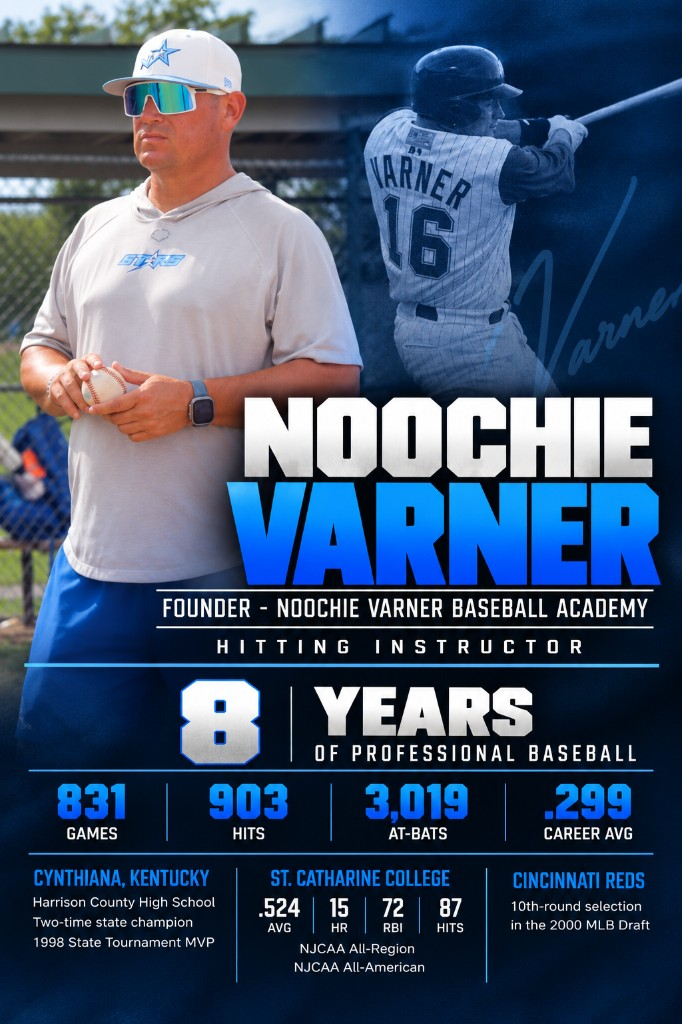
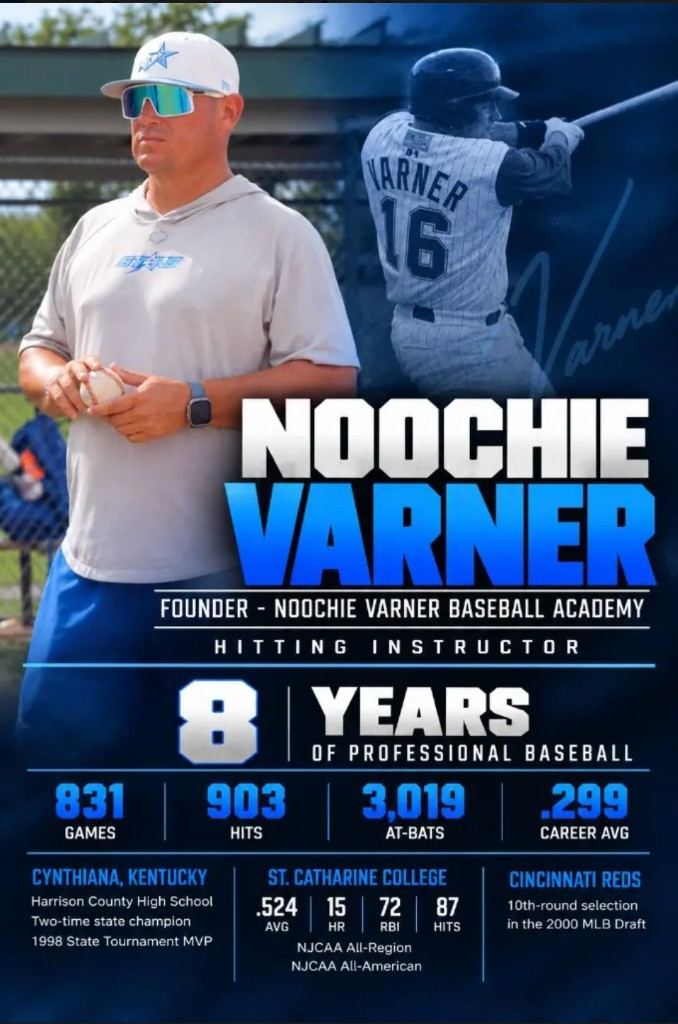
bio section

diff --git a/src/components/FounderAboutSection.tsx b/src/components/FounderAboutSection.tsx
@@ -44,31 +44,22 @@ export default function FounderAboutSection({ founder }: { founder: FounderPubli
       <section id="noochie-varner" className="scroll-mt-28 border-t border-nv-navy/8 bg-white">
         <div className="mx-auto max-w-7xl px-4 py-10 sm:px-6 sm:py-12">
           <div className="grid gap-10 lg:grid-cols-[minmax(0,1fr)_minmax(0,2fr)] lg:gap-12">
-            <div className="space-y-4">
-              <div className="relative aspect-[4/5] overflow-hidden rounded-2xl ring-1 ring-nv-navy/10">
-                <Image
-                  src={founder.photoUrl}
-                  alt="Noochie Varner"
-                  fill
-                  className="object-cover object-top"
-                  sizes="(max-width: 1024px) 100vw, 360px"
-                />
-              </div>
+            <div>
               <button
                 type="button"
-                onClick={() => setLightbox(founder.careerPosterUrl)}
-                className="block w-full overflow-hidden rounded-lg border border-nv-navy/10 bg-nv-ice/30 transition hover:border-nv-blue/40 hover:shadow-md"
+                onClick={() => setLightbox(founder.mainImageUrl)}
+                className="block w-full max-w-md overflow-hidden rounded-2xl bg-nv-navy ring-1 ring-nv-navy/10 transition hover:ring-nv-blue/40 lg:max-w-sm"
               >
-                <span className="relative block aspect-[16/10]">
+                <span className="relative block aspect-[2/3]">
                   <Image
-                    src={founder.careerPosterUrl}
-                    alt="Noochie Varner career statistics"
+                    src={founder.mainImageUrl}
+                    alt="Noochie Varner — founder and professional baseball career highlights"
                     fill
-                    className="object-contain p-1"
-                    sizes="360px"
+                    className="object-contain object-center"
+                    sizes="(max-width: 1024px) 100vw, 420px"
                   />
                 </span>
-                <span className="block px-2 py-2 text-center text-xs font-semibold text-nv-blue">View career stats graphic</span>
+                <span className="block px-3 py-2 text-center text-xs font-semibold text-nv-blue">Enlarge image</span>
               </button>
             </div>
             <div>

diff --git a/src/lib/nvba-admin-sections.ts b/src/lib/nvba-admin-sections.ts
@@ -292,8 +292,8 @@ export const adminSections: Record<string, AdminSection> = {
       { key: "mission", label: "Mission", kind: "textarea" },
       { key: "ownerBio", label: "Owner biography (legacy)", kind: "textarea", advanced: true },
       { key: "founderHomeSummary", label: "Founder homepage summary", kind: "textarea", help: "About 80 words for the homepage Meet Noochie section." },
-      { key: "founderPhotoFile", targetKey: "founderPhotoUrl", label: "Founder photo (homepage & about)", kind: "file", accept: "image/jpeg,image/png,image/webp" },
-      { key: "founderCareerPosterFile", targetKey: "founderCareerPosterUrl", label: "Career stats graphic (thumbnail)", kind: "file", accept: "image/jpeg,image/png,image/webp" },
+      { key: "founderCareerPosterFile", targetKey: "founderCareerPosterUrl", label: "Founder main image (homepage & about bio)", kind: "file", accept: "image/jpeg,image/png,image/webp" },
+      { key: "founderPhotoFile", targetKey: "founderPhotoUrl", label: "Optional portrait photo (not used on homepage)", kind: "file", accept: "image/jpeg,image/png,image/webp", advanced: true },
       { key: "founderTestimonialsFlyerFile", targetKey: "founderTestimonialsFlyerUrl", label: "Testimonials flyer (lightbox)", kind: "file", accept: "image/jpeg,image/png,image/webp" },
       { key: "testimonialBradQuote", label: "Testimonial — Brad Shelton quote", kind: "textarea" },
       { key: "testimonialBradName", label: "Testimonial — Brad Shelton name", placeholder: "Brad Shelton" },

diff --git a/src/lib/nvba-public-content.ts b/src/lib/nvba-public-content.ts
@@ -469,6 +469,8 @@ export async function getSiteBranding(): Promise<SiteBranding> {
 
 export type FounderPublicContent = {
   homeSummary: string;
+  /** Primary founder graphic (career stats poster) on homepage and about bio. */
+  mainImageUrl: string;
   photoUrl: string;
   careerPosterUrl: string;
   testimonialsFlyerUrl: string;
@@ -491,16 +493,19 @@ export async function getPublicFounderContent(): Promise<FounderPublicContent> {
   const testimonialBradQuote = dataString(data, "testimonialBradQuote");
   const testimonialMacQuote = dataString(data, "testimonialMacQuote");
 
+  const careerPosterUrl =
+    data && "founderCareerPosterUrl" in data
+      ? dataString(data, "founderCareerPosterUrl") || FOUNDER_CAREER_POSTER
+      : FOUNDER_CAREER_POSTER;
+
   return {
     homeSummary: dataString(data, "founderHomeSummary") || FOUNDER_HOME_SUMMARY,
+    mainImageUrl: careerPosterUrl,
     photoUrl:
       (data && "founderPhotoUrl" in data ? dataString(data, "founderPhotoUrl") : "") ||
       dataString(noochieData, "photoUrl") ||
       FOUNDER_PHOTO,
-    careerPosterUrl:
-      data && "founderCareerPosterUrl" in data
-        ? dataString(data, "founderCareerPosterUrl") || FOUNDER_CAREER_POSTER
-        : FOUNDER_CAREER_POSTER,
+    careerPosterUrl,
     testimonialsFlyerUrl:
       data && "founderTestimonialsFlyerUrl" in data
         ? dataString(data, "founderTestimonialsFlyerUrl") || FOUNDER_TESTIMONIALS_FLYER

diff --git a/src/components/HomeFounderSection.tsx b/src/components/HomeFounderSection.tsx
@@ -9,13 +9,13 @@ export default function HomeFounderSection({ founder }: { founder: FounderPublic
   return (
     <section className="border-b border-nv-navy/8 bg-gradient-to-b from-nv-ice/40 to-white py-10 sm:py-12">
       <div className="mx-auto grid max-w-7xl items-center gap-8 px-4 sm:px-6 lg:grid-cols-2 lg:gap-12">
-        <div className="relative mx-auto aspect-[4/5] w-full max-w-md overflow-hidden rounded-2xl shadow-lg shadow-nv-navy/10 ring-1 ring-nv-navy/10 lg:mx-0 lg:max-w-none">
+        <div className="relative mx-auto aspect-[2/3] w-full max-w-sm overflow-hidden rounded-2xl bg-nv-navy shadow-lg shadow-nv-navy/10 ring-1 ring-nv-navy/10 lg:mx-0 lg:max-w-md">
           <Image
-            src={founder.photoUrl}
-            alt="Noochie Varner, founder of Noochie Varner Baseball Academy"
+            src={founder.mainImageUrl}
+            alt="Noochie Varner — founder, hitting instructor, and professional baseball career highlights"
             fill
-            className="object-cover object-top"
-            sizes="(max-width: 1024px) 90vw, 50vw"
+            className="object-contain object-center"
+            sizes="(max-width: 1024px) 90vw, 420px"
             priority={false}
           />
         </div>
